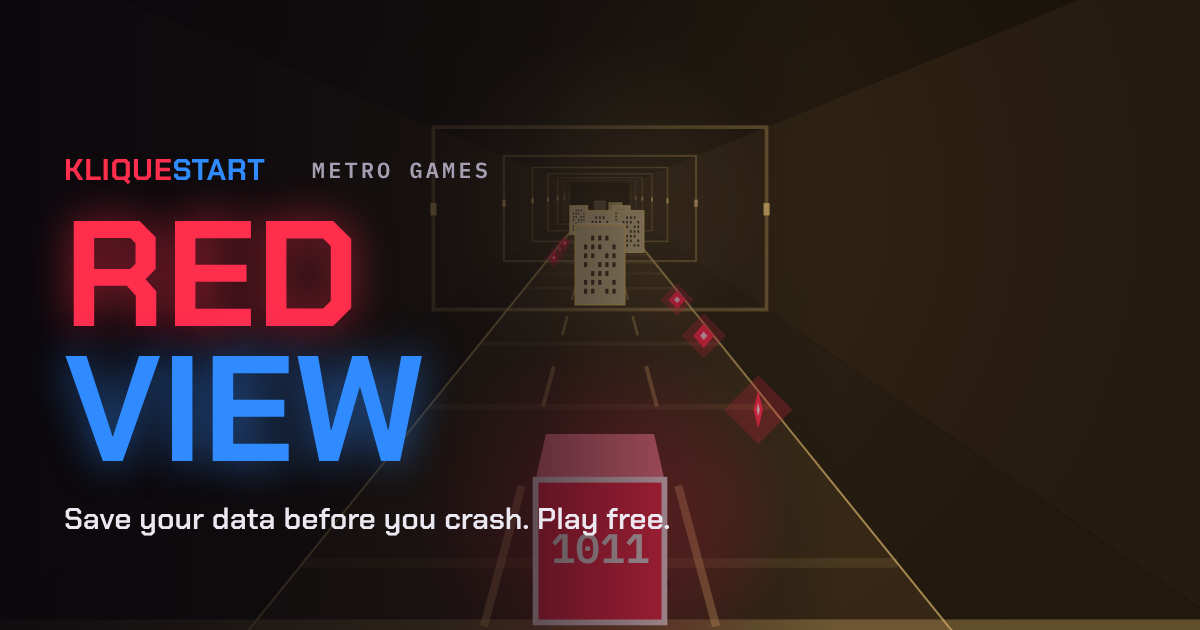
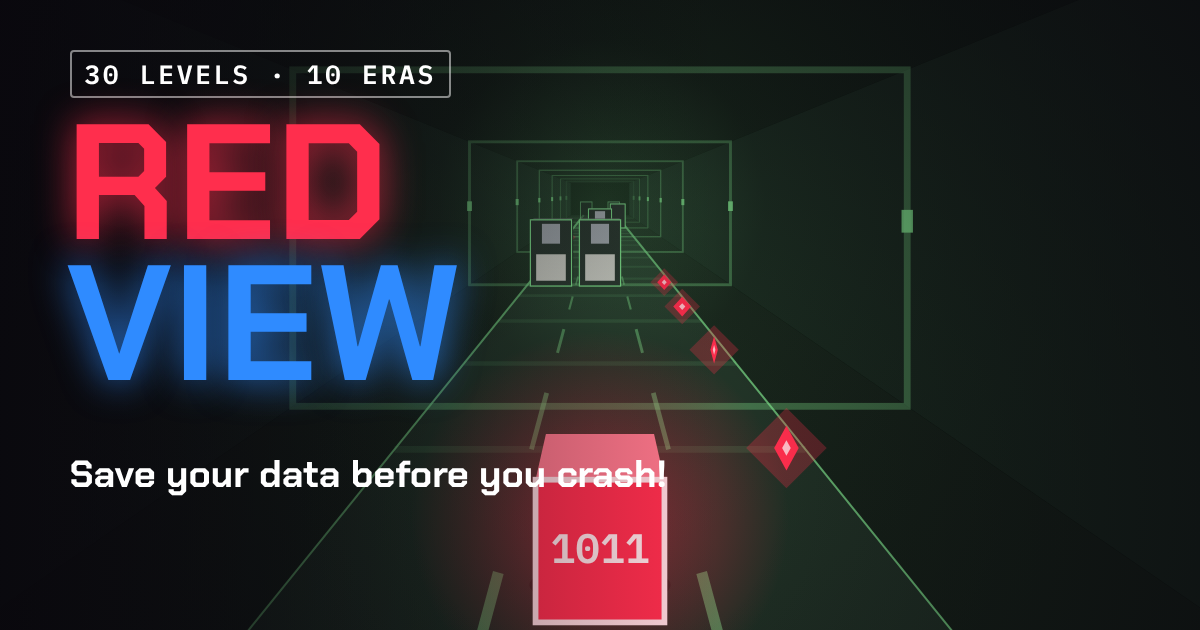
New game thumbnails, click-friendly home page, Agla Station landing page
- Polished thumbnails and social preview images for both games
  (big title, hero character, strong contrast)
- Home page: thumbnail-first tiles, whole tile tappable, play button and
  NEW badge, Agla Station listed first
- SEO landing page for Agla Station at /games/agla-station/ with the
  stations and how to play; added to the sitemap and offline cache
- Fix thumbnails being cropped by their height attribute

Claude-Session: https://claude.ai/code/session_015gerX6gSQdb389PLvD7BYD

diff --git a/games/agla-station/index.html b/games/agla-station/index.html
@@ -1,0 +1,95 @@
+<!doctype html>
+<html lang="en">
+<head>
+<meta charset="utf-8">
+<meta name="viewport" content="width=device-width, initial-scale=1">
+<title>Agla Station – Delhi Metro Runner Game, Play Free Online | Kliquestart</title>
+<meta name="description" content="Play Agla Station free: a Delhi Metro runner game. Rush hour at Chandni Chowk, a quiz run over Kashmere Gate and a night ride to Hauz Khas. Play as a boy or girl, on foot or on a scooty.">
+<link rel="canonical" href="https://www.kliquestart.com/games/agla-station/">
+<meta name="theme-color" content="#0b0910">
+<meta property="og:type" content="website">
+<meta property="og:site_name" content="Metro Games by Kliquestart">
+<meta property="og:title" content="Agla Station – Run through Delhi Metro">
+<meta property="og:description" content="A free Delhi Metro runner. Pick your rider, hop on a scooty and catch the last train to Hauz Khas.">
+<meta property="og:url" content="https://www.kliquestart.com/games/agla-station/">
+<meta property="og:image" content="https://www.kliquestart.com/assets/og-agla-station.jpg">
+<meta property="og:image:width" content="1200">
+<meta property="og:image:height" content="630">
+<meta name="twitter:card" content="summary_large_image">
+<link rel="icon" href="../../assets/icon-192.png" type="image/png">
+<link rel="apple-touch-icon" href="../../assets/icon-180.png">
+<link rel="manifest" href="../../site.webmanifest">
+<link rel="stylesheet" href="../../assets/fonts.css">
+<link rel="stylesheet" href="../../assets/site.css">
+<script type="application/ld+json">
+{"@context":"https://schema.org","@graph":[
+ {"@type":"VideoGame","name":"Agla Station","alternateName":"Metros of India","url":"https://www.kliquestart.com/games/agla-station/",
+  "description":"A free browser runner game set on Delhi Metro. Run through Chandni Chowk, Kashmere Gate and Hauz Khas as a boy or girl, on foot or on a scooty.",
+  "image":"https://www.kliquestart.com/assets/og-agla-station.jpg","genre":["Runner","Arcade","Casual"],
+  "gamePlatform":["Web browser","Mobile web"],"applicationCategory":"Game","operatingSystem":"Any","inLanguage":"en-IN",
+  "playMode":"SinglePlayer","offers":{"@type":"Offer","price":"0","priceCurrency":"INR"},
+  "publisher":{"@type":"Organization","name":"Kliquestart","url":"https://www.kliquestart.com/"}},
+ {"@type":"BreadcrumbList","itemListElement":[
+  {"@type":"ListItem","position":1,"name":"Metro Games","item":"https://www.kliquestart.com/"},
+  {"@type":"ListItem","position":2,"name":"Agla Station","item":"https://www.kliquestart.com/games/agla-station/"}]}
+]}
+</script>
+<!-- ANALYTICS: paste your Google Analytics snippet here -->
+<!-- ADS: paste your AdSense <script> tag here once your site is approved -->
+</head>
+<body>
+<header class="top">
+  <div class="wrap">
+    <a class="brand" href="../../"><span class="wm"><span class="r">KLIQUE</span><span class="b">START</span></span> <b>Metro Games</b></a>
+  </div>
+</header>
+
+<main class="wrap">
+  <nav class="crumbs" aria-label="Breadcrumb"><a href="../../">Metro Games</a> / Agla Station</nav>
+
+  <div class="gamehead">
+    <a class="shot" href="play/#go">
+      <img src="../../assets/agla-station-card.jpg" alt="Agla Station: a girl on a red scooty riding the elevated Delhi Metro line over the rooftops" width="800" height="500">
+      <span class="btn red">▶ Play free</span>
+    </a>
+    <div>
+      <h1>Agla Station</h1>
+      <p class="lede">A Delhi Metro runner game. Dodge the rush-hour crowd, answer quiz gates over the rooftops and catch the last train home. Play as a boy or a girl, on foot or on a scooty.</p>
+      <p style="margin-top:22px"><a class="btn red" href="play/#go">Play free</a></p>
+    </div>
+  </div>
+
+  <div class="ad-slot" id="ad-game-top" hidden></div>
+
+  <div class="stack">
+    <section class="prose" aria-labelledby="stations">
+      <h2 id="stations">The Delhi stations</h2>
+      <p><b>1. Chandni Chowk, Rush Hour.</b> Your first day in Delhi. Dash down a packed underground platform past commuters and luggage, then run the tunnel to the next stop.</p>
+      <p><b>2. Kashmere Gate, Quiz Run.</b> Three metro lines meet here. Your train climbs into the open over Old Delhi, and quiz boards ask about the metro. Run into the right answer for bonus coins.</p>
+      <p><b>3. Hauz Khas, Night Run.</b> A late-night ride high above South Delhi with Qutub Minar on the skyline, then underground for the last train home.</p>
+      <p><b>Next stop: Qutub Minar.</b> More stations and more Indian metro cities are on the way.</p>
+    </section>
+
+    <section aria-labelledby="controls">
+      <h2 id="controls">How to play</h2>
+      <div class="keys">
+        <div><h3>Phone</h3><p>Swipe left or right to change lanes. Swipe up or tap to jump. Swipe down to slide.</p></div>
+        <div><h3>Keyboard</h3><p><kbd>←</kbd> <kbd>→</kbd> change lanes · <kbd>↑</kbd> or <kbd>Space</kbd> jump · <kbd>↓</kbd> slide · <kbd>P</kbd> pause</p></div>
+        <div><h3>Score</h3><p>Collect ₹ coins, keep your 3 hearts and earn up to 3 stars per station. Crash and you restart from the last checkpoint.</p></div>
+        <div><h3>Your rider</h3><p>Choose boy or girl, type your name, ride on foot or on a scooty, and switch on Night mode for any station.</p></div>
+      </div>
+    </section>
+  </div>
+
+  <div class="ad-slot" id="ad-game-bottom" hidden></div>
+</main>
+
+<footer class="foot">
+  <div class="wrap">
+    <span>Metro Games by Kliquestart</span>
+    <nav><a href="../../">All games</a><a href="../../about.html">About</a><a href="../../privacy.html">Privacy</a></nav>
+  </div>
+</footer>
+<script>if('serviceWorker' in navigator&&(location.protocol==='https:'||location.hostname==='localhost'))addEventListener('load',()=>navigator.serviceWorker.register('../../sw.js').catch(()=>{}));</script>
+</body>
+</html>

diff --git a/index.html b/index.html
@@ -10,9 +10,9 @@
 <meta property="og:type" content="website">
 <meta property="og:site_name" content="Metro Games by Kliquestart">
 <meta property="og:title" content="Metro Games by Kliquestart – Quick games for the ride home">
-<meta property="og:description" content="Quick, free browser games for your phone or laptop. Play Red View now.">
+<meta property="og:description" content="Quick, free browser games for your phone or laptop. Play Agla Station and Red View now.">
 <meta property="og:url" content="https://www.kliquestart.com/">
-<meta property="og:image" content="https://www.kliquestart.com/assets/og-red-view.png">
+<meta property="og:image" content="https://www.kliquestart.com/assets/og-agla-station.jpg">
 <meta property="og:image:width" content="1200">
 <meta property="og:image:height" content="630">
 <meta name="twitter:card" content="summary_large_image">
@@ -25,8 +25,8 @@
 {"@context":"https://schema.org","@graph":[
  {"@type":"WebSite","name":"Metro Games by Kliquestart","alternateName":"Kliquestart","url":"https://www.kliquestart.com/"},
  {"@type":"ItemList","name":"Metro Games","itemListElement":[
-  {"@type":"ListItem","position":1,"url":"https://www.kliquestart.com/games/red-view/","name":"Red View"},
-  {"@type":"ListItem","position":2,"url":"https://www.kliquestart.com/games/agla-station/play/","name":"Agla Station"}
+  {"@type":"ListItem","position":1,"url":"https://www.kliquestart.com/games/agla-station/","name":"Agla Station"},
+  {"@type":"ListItem","position":2,"url":"https://www.kliquestart.com/games/red-view/","name":"Red View"}
  ]}
 ]}
 </script>
@@ -43,49 +43,22 @@
 <main class="wrap">
   <section class="hero">
     <h1>Quick games for the ride home.</h1>
-    <p class="lede">Free games that play right in your browser, on your phone or your laptop.</p>
+    <p class="lede">Free games that play right in your browser, on your phone or laptop. Tap a game to start.</p>
   </section>
 
-  <section class="line" aria-labelledby="line-title">
-    <h2 id="line-title" class="sr-only">Games</h2>
-    <ol class="stations">
-      <li class="station">
-        <div class="card">
-          <a class="play-area" href="games/red-view/play/#go" aria-label="Play Red View">
-            <img src="assets/red-view-card.jpg" alt="Red View gameplay: a glowing red data cube runs down a metro tunnel past punch-card obstacles" width="800" height="500">
-          </a>
-          <div class="body">
-            <h3>Red View</h3>
-            <p>Your data is red until you save it. Run it from punch cards to quantum chips and reach the blue gates before you crash.</p>
-            <div class="actions">
-              <a class="btn red" href="games/red-view/play/#go">Play free</a>
-              <a class="more" href="games/red-view/">How to play</a>
-            </div>
-          </div>
-        </div>
-      </li>
-      <li class="station">
-        <div class="card">
-          <a class="play-area" href="games/agla-station/play/#go" aria-label="Play Agla Station">
-            <img src="assets/agla-station-card.jpg" alt="Agla Station: a runner in the Chandni Chowk bazaar with shop signs, fruit carts and kites in the sky" width="800" height="500">
-          </a>
-          <div class="body">
-            <span class="stop">New · Metros of India</span>
-            <h3>Agla Station</h3>
-            <p>Run through India’s metro cities, starting with Delhi. Pick your rider, on foot or on a scooty, beat the Chandni Chowk rush hour, ride over the rooftops and catch the last train to Hauz Khas.</p>
-            <div class="actions">
-              <a class="btn red" href="games/agla-station/play/#go">Play free</a>
-            </div>
-          </div>
-        </div>
-      </li>
-      <li class="station soon">
-        <div class="card ghost">
-          <span class="stop">Coming soon</span>
-          <h3>More games are on the way</h3>
-        </div>
-      </li>
-    </ol>
+  <section aria-labelledby="games-title">
+    <h2 id="games-title" class="sr-only">Games</h2>
+    <div class="tiles">
+      <a class="tile" href="games/agla-station/play/#go">
+        <span class="thumb"><img src="assets/agla-station-card.jpg" alt="Agla Station: a girl on a red scooty riding the elevated Delhi Metro line over the rooftops, with a cow on the track" width="800" height="500"><span class="playbtn" aria-hidden="true">▶</span><span class="badge">New</span></span>
+        <span class="info"><b>Agla Station</b><span>Delhi Metro runner. Pick your rider, hop on a scooty and catch the last train.</span><span class="go">Play free →</span></span>
+      </a>
+      <a class="tile" href="games/red-view/play/#go">
+        <span class="thumb"><img src="assets/red-view-card.jpg" alt="Red View: a glowing red data cube runs down a neon tunnel collecting red bits" width="800" height="500"><span class="playbtn" aria-hidden="true">▶</span></span>
+        <span class="info"><b>Red View</b><span>Carry your data through 200 years of tech. Save it at the blue gates before you crash.</span><span class="go">Play free →</span></span>
+      </a>
+    </div>
+    <p class="howlinks"><a href="games/agla-station/">How to play Agla Station</a> · <a href="games/red-view/">How to play Red View</a></p>
   </section>
 
   <div class="ad-slot" id="ad-home" hidden></div>

diff --git a/assets/site.css b/assets/site.css
@@ -78,15 +78,15 @@ a.card:hover{border-color:var(--red)}
 .crumbs a{text-decoration:none}.crumbs a:hover{text-decoration:underline}
 .gamehead{display:grid;grid-template-columns:minmax(0,1.3fr) minmax(0,1fr);gap:28px;align-items:center;padding-block:20px 36px}
 .shot{position:relative;display:block;border-radius:16px;overflow:hidden;border:1px solid var(--line)}
-.shot img{aspect-ratio:16/10;object-fit:cover;width:100%}
-.shot .btn{position:absolute;left:50%;top:50%;transform:translate(-50%,-50%);font-size:20px;padding:16px 34px}
+.shot img{aspect-ratio:16/10;object-fit:cover;width:100%;height:auto}
+.shot .btn{position:absolute;right:14px;bottom:14px;font-size:18px;padding:12px 24px}
 .legend-red{color:var(--red);font-weight:700}.legend-blue{color:var(--blue);font-weight:700}
 .eras{list-style:none;margin:0;padding:0;display:grid;grid-template-columns:repeat(auto-fill,minmax(230px,1fr));gap:10px;counter-reset:era}
 .eras li{border:1px solid var(--line);border-radius:12px;padding:12px 14px;background:var(--ink-2)}
 .eras b{display:block}
 .eras span{font-size:13px;color:var(--muted)}
 .eras em{font-style:normal;font-size:15px;color:var(--muted);display:block;margin-top:4px}
-.keys{display:grid;grid-template-columns:repeat(auto-fit,minmax(260px,1fr));gap:16px}
+.keys{display:grid;grid-template-columns:repeat(auto-fit,minmax(min(100%,320px),1fr));gap:16px}
 .keys div{border:1px solid var(--line);border-radius:12px;padding:16px}
 .keys h3{font-size:17px;margin-bottom:6px}
 .keys p{margin:0;color:var(--muted);font-size:15px}
@@ -111,3 +111,19 @@ kbd{font-family:var(--body);font-weight:700;font-size:13px;border:1px solid var(
 .card .actions a.more{color:var(--muted);font-size:15px}
 .card .play-area{display:block}
 .sr-only{position:absolute;width:1px;height:1px;overflow:hidden;clip:rect(0 0 0 0);white-space:nowrap}
+
+/* game tiles: thumbnail first, whole tile tappable */
+.hero{padding-block:36px 22px}
+.tiles{display:grid;grid-template-columns:repeat(auto-fit,minmax(min(100%,320px),1fr));gap:18px}
+.tile{display:flex;flex-direction:column;text-decoration:none;background:var(--ink-2);border:1px solid var(--line);border-radius:16px;overflow:hidden;transition:transform .15s,border-color .15s}
+.tile:hover{transform:translateY(-3px);border-color:var(--red)}
+.thumb{position:relative;display:block}
+.thumb img{width:100%;height:auto;aspect-ratio:16/10;object-fit:cover}
+.playbtn{position:absolute;right:14px;bottom:14px;width:58px;height:58px;border-radius:50%;background:var(--red);color:#fff;display:grid;place-items:center;font-size:24px;padding-left:4px;box-shadow:0 6px 20px rgba(0,0,0,.45)}
+.tile:hover .playbtn{transform:scale(1.08)}
+.badge{position:absolute;left:12px;top:12px;background:#f7c20b;color:#1f1a15;font-weight:700;font-size:13px;letter-spacing:.06em;text-transform:uppercase;padding:3px 10px;border-radius:999px}
+.info{display:flex;flex-direction:column;gap:4px;padding:14px 16px 16px}
+.info b{font-family:var(--display);font-size:26px;line-height:1.1}
+.info span{color:var(--muted);font-size:15px}
+.info .go{color:var(--red);font-weight:700;font-size:16px;margin-top:4px}
+.howlinks{margin:16px 0 0;font-size:14px;color:var(--muted)}

diff --git a/sw.js b/sw.js
@@ -2,7 +2,7 @@
    - Pages: try the network for up to 3 seconds, then fall back to the saved copy (slow metro signal).
    - Files (CSS, fonts, images): serve the saved copy instantly and refresh it in the background.
    Bump VERSION whenever the CORE list changes. */
-const VERSION = 'ks-v2';
+const VERSION = 'ks-v3';
 const CORE = [
   '/', '/about.html', '/privacy.html', '/site.webmanifest',
   '/assets/site.css', '/assets/fonts.css', '/assets/fonts-metro.css',
@@ -10,7 +10,7 @@ const CORE = [
   '/assets/fonts/ChakraPetch-500.woff2', '/assets/fonts/ChakraPetch-600.woff2', '/assets/fonts/ChakraPetch-700.woff2',
   '/assets/fonts/IBMPlexMono-400.woff2', '/assets/fonts/IBMPlexMono-600.woff2',
   '/assets/icon-192.png', '/assets/red-view-card.jpg', '/assets/agla-station-card.jpg',
-  '/games/agla-station/play/', '/games/red-view/', '/games/red-view/play/'
+  '/games/agla-station/', '/games/agla-station/play/', '/games/red-view/', '/games/red-view/play/'
 ];
 
 self.addEventListener('install', e => {

diff --git a/games/agla-station/play/index.html b/games/agla-station/play/index.html
@@ -7,6 +7,10 @@
 <meta name="description" content="Agla Station: a Metros of India runner. Run through Delhi station by station. Chandni Chowk bazaar, Kashmere Gate quiz run, a night ride to Hauz Khas. Free in your browser.">
 <link rel="canonical" href="https://www.kliquestart.com/games/agla-station/play/">
 <meta name="theme-color" content="#f4e9d2">
+<meta property="og:title" content="Agla Station – Run through Delhi Metro">
+<meta property="og:description" content="A free Delhi Metro runner. Pick your rider, hop on a scooty and catch the last train.">
+<meta property="og:image" content="https://www.kliquestart.com/assets/og-agla-station.jpg">
+<meta name="twitter:card" content="summary_large_image">
 <link rel="icon" href="../../../assets/icon-192.png" type="image/png">
 <link rel="manifest" href="../../../site.webmanifest">
 <link rel="stylesheet" href="../../../assets/fonts-metro.css">
